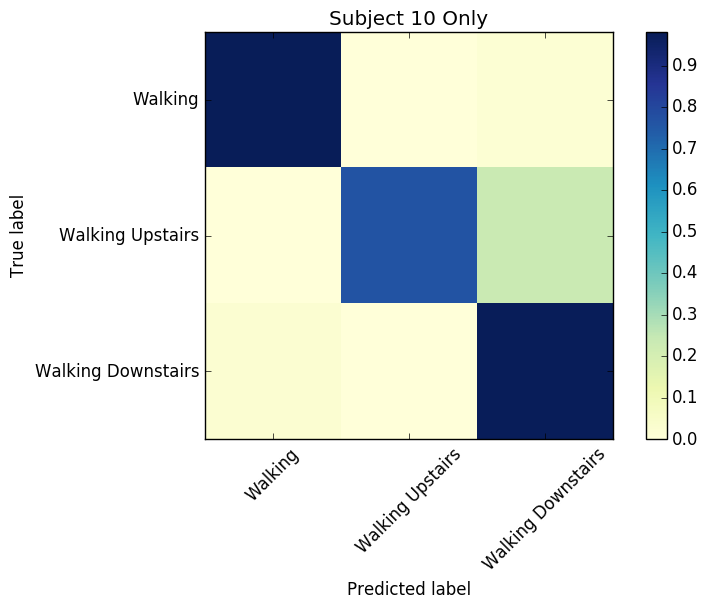
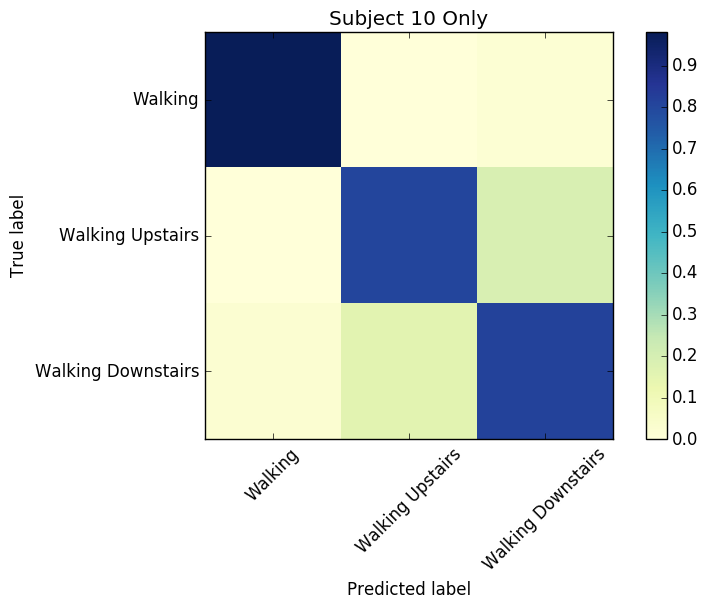
Refactoring to construct model and analyze model separately.

Changed region(s): [[0.4661, 0.4992, 0.8701, 0.7488]]

diff --git a/src/models.py b/src/models.py
@@ -1,0 +1,95 @@
+import numpy as np
+np.random.seed(1)  # for reproducibility
+
+from keras.layers.core import Dense, Dropout, Flatten
+from keras.layers import Convolution2D, MaxPooling2D
+from keras.models import Sequential
+from keras.regularizers import l2
+from src import data_source
+from keras.optimizers import SGD, RMSprop, Adam
+
+from settings import DROPOUT, DROPOUT_FRACTION, CONVO_DROPOUT_FRACTION, NB_EPOCH, LEARNING_RATE
+
+
+def create_base_network(input_shape):
+    """
+    Base network to be shared (eq. to feature extraction).
+    This is shared among the 'siamese' embedding as well as the
+    more traditional classification problem
+    """
+    seq = Sequential()
+    seq.add(Convolution2D(32, 8, 1,
+                          border_mode='valid',
+                          activation='relu',
+                          input_shape=input_shape,
+                          name="input"
+                          ))
+    seq.add(MaxPooling2D(pool_size=(2, 1)))
+    seq.add(Convolution2D(64, 4, 1,
+                          border_mode='valid',
+                          activation='relu'
+                          ))
+    seq.add(MaxPooling2D(pool_size=(2, 1)))
+    if DROPOUT:
+        seq.add(Dropout(CONVO_DROPOUT_FRACTION))
+    seq.add(Flatten())
+    seq.add(Dense(128, activation='relu',
+                  ))
+    if DROPOUT:
+        seq.add(Dropout(DROPOUT_FRACTION))
+    seq.add(Dense(128, activation='relu',
+                  W_regularizer=l2(0.01),
+                  b_regularizer=l2(0.01)
+                  ))
+    if DROPOUT:
+        seq.add(Dropout(DROPOUT_FRACTION))
+
+    return seq
+
+
+def create_activity_model(input_shape):
+    # network definition
+    model = create_base_network(input_shape)
+    # output layer
+    model.add(Dense(3, activation='softmax'))
+
+    return model
+
+def train_activity_model():
+    """
+    Constructs the activity mode, gets data from data_source, trains the model
+    saves model and returns the model.
+    :return: trained model
+    """
+    # Scaled and shuffled data
+    X_train, subject_train, activity_train, _ = data_source.get_timeseries_data('train')
+    X_test, subject_test, activity_test, _ = data_source.get_timeseries_data('test')
+
+    y_train = activity_train
+    y_test = activity_test
+
+    X_train = X_train.astype('float32')
+    X_test = X_test.astype('float32')
+
+    input_shape = (X_train.shape[1], 128, 1)
+    nb_epoch = NB_EPOCH
+
+    model = create_activity_model(input_shape=input_shape)
+
+    opt = RMSprop(lr=LEARNING_RATE)
+    model.compile(loss='categorical_crossentropy', optimizer=opt, metrics=['accuracy'])
+
+    model.fit(X_train, y_train,
+              validation_data=(X_test, y_test),
+              batch_size=128,
+              nb_epoch=nb_epoch)
+
+    return model
+
+def maybe_train_activity_model():
+    """
+    Tries to load a trained model from disk but trains a new one
+    if we can't load it from disk.
+    :return: trained model
+    """
+    pass

diff --git a/src/activity_convo.py b/src/activity_convo.py
@@ -10,64 +10,36 @@ from __future__ import division
 import numpy as np
 np.random.seed(1)  # for reproducibility
 
-from keras.layers.core import Dense
-from keras.optimizers import SGD, RMSprop, Adam
+from src.models import train_activity_model
+from src.data_source import get_timeseries_data
 
-from sklearn.preprocessing import OneHotEncoder
-from settings import NB_EPOCH, LEARNING_RATE
-from src import data_reader
-from src.base_network import create_base_network
 from sklearn.metrics import confusion_matrix
 
 import matplotlib.pyplot as plt
 
-# Scaled and shuffled data
-X_train, subject_train, activity_train, _ = data_reader.get_timeseries_data('train')
-X_test, subject_test, activity_test, _ = data_reader.get_timeseries_data('test')
 
-encoder = OneHotEncoder()
-activity_train_one_hot = encoder.fit_transform(activity_train).todense()
-activity_test_one_hot = encoder.transform(activity_test).todense()
-
-y_train = activity_train_one_hot
-y_test = activity_test_one_hot
-
-X_train = X_train.astype('float32')
-X_test = X_test.astype('float32')
-
-input_shape = (X_train.shape[1], 128, 1)
-nb_epoch = NB_EPOCH
-
-# network definition
-model = create_base_network(input_shape)
-# output layer
-model.add(Dense(3, activation='softmax'))
-
-# train
-opt = RMSprop(lr=LEARNING_RATE)
-model.compile(loss='categorical_crossentropy', optimizer=opt, metrics=['accuracy'])
-model.fit(X_train, y_train,
-      validation_data=(X_test, y_test),
-      batch_size=128,
-      nb_epoch=nb_epoch)
+model = train_activity_model()
+X_test, subject_test, activity_test, _ = get_timeseries_data('test')
 
 pred = model.predict(X_test)
 
-score = model.evaluate(X_test, y_test, verbose=0)
+score = model.evaluate(X_test, activity_test, verbose=0)
 print('Test score:', score[0])
 print('Test accuracy:', score[1])
 
 # Looks like subject 10 is the subject we get wrong most often, make
 # a confusion matrix just for him/her
+
+
+
 predicted_classes = np.expand_dims(np.argmax(pred, axis=1) + 1, axis=1)
-incorrect_prediction = (predicted_classes != activity_test)
+activity_test_classes = (np.argmax(activity_test, axis=1) + 1).getA()
+
+# incorrect_prediction = (predicted_classes != activity_test)
 subject_10 = subject_test == 10
 
-predicted_classes_10 = predicted_classes[subject_10]
-activity_test_10 = activity_test[subject_10]
-
-cm = confusion_matrix(activity_test, predicted_classes)
-cm_10 = confusion_matrix(activity_test_10, predicted_classes_10)
+cm = confusion_matrix(activity_test_classes, predicted_classes)
+cm_10 = confusion_matrix(activity_test_classes[subject_10], predicted_classes[subject_10])
 
 
 def plot_confusion_matrix(cm, filename, title, cmap=plt.cm.YlGnBu):
@@ -93,3 +65,4 @@ plot_confusion_matrix(cm_normalized, 'activity_prediction_confusion_matrix.png',
 plot_confusion_matrix(cm_10_normalized, 'activity_prediction_confusion_matrix_10.png', "Subject 10 Only")
 
 
+print(model.layers[0].get_weights()[0].shape)

diff --git a/src/data_source.py b/src/data_source.py
@@ -32,7 +32,7 @@ def get_data(data_set='train'):
     return X[perm], y_subject[perm]
 
 
-def get_timeseries_data(data_set='train'):
+def get_timeseries_data(data_set='train', one_hot=True):
     """
     :param data_set: 'train' for train data or 'test' for test data
     :return: tuple containing the gyro data, the subject id, and the activity id
@@ -84,7 +84,13 @@ def get_timeseries_data(data_set='train'):
 
     # Shuffle the data before returning
     perm = np.random.permutation((range(X.shape[0])))
-    return X[perm], subject[perm], activity[perm], map(lambda x: x[5:], timeseries_feature_names)
+
+    encoder = OneHotEncoder()
+    # Will using the fit transform for both test and train be a problem?
+    # It will certainly become very evident if it is
+    activity_one_hot = encoder.fit_transform(activity[perm]).todense()
+
+    return X[perm], subject[perm], activity_one_hot, map(lambda x: x[5:], timeseries_feature_names)
 
 
 if __name__ == '__main__':

diff --git a/src/siamese_graph_convo.py b/src/siamese_graph_convo.py
@@ -22,7 +22,7 @@ from keras.layers import Convolution2D, MaxPooling2D, Input
 
 from settings import NB_EPOCH, INPUT_SHAPE, EMBEDDING_DIM, LEARNING_RATE, OPTIMIZER, MARGIN
 
-from src import data_reader
+from src import data_source
 from src.base_network import create_base_network
 
 import matplotlib.pyplot as plt
@@ -119,8 +119,8 @@ def compute_accuracy(predictions, labels):
 
 
 # the data, shuffled and split between train and test sets
-X_train, subjects_train, _ = data_reader.get_timeseries_data('train')
-X_test, subjects_test, _ = data_reader.get_timeseries_data('test')
+X_train, subjects_train, _ = data_source.get_timeseries_data('train')
+X_test, subjects_test, _ = data_source.get_timeseries_data('test')
 
 y_train = subjects_train
 y_test = subjects_test

diff --git a/settings/embedding_dev.py b/settings/embedding_dev.py
@@ -10,6 +10,7 @@ NB_CONV_FILTERS = 2
 
 DROPOUT = False
 DROPOUT_FRACTION = 0.1
+CONVO_DROPOUT_FRACTION = 0.2
 
 # Dimension of the embedding space. Here it is artifically small so we can visulaize it
 EMBEDDING_DIM = 2

diff --git a/settings/dev.py b/settings/dev.py
@@ -5,6 +5,8 @@ PROJECT_HOME = "/Users/Brian/workplace/projects/siamese/"
 
 INPUT_SHAPE = (9, 128, 1)
 
+CONVO_DROPOUT_FRACTION = 0.2
+
 # Settings for cnn
 NB_EPOCH = 1
 NB_CONV_FILTERS = 2
